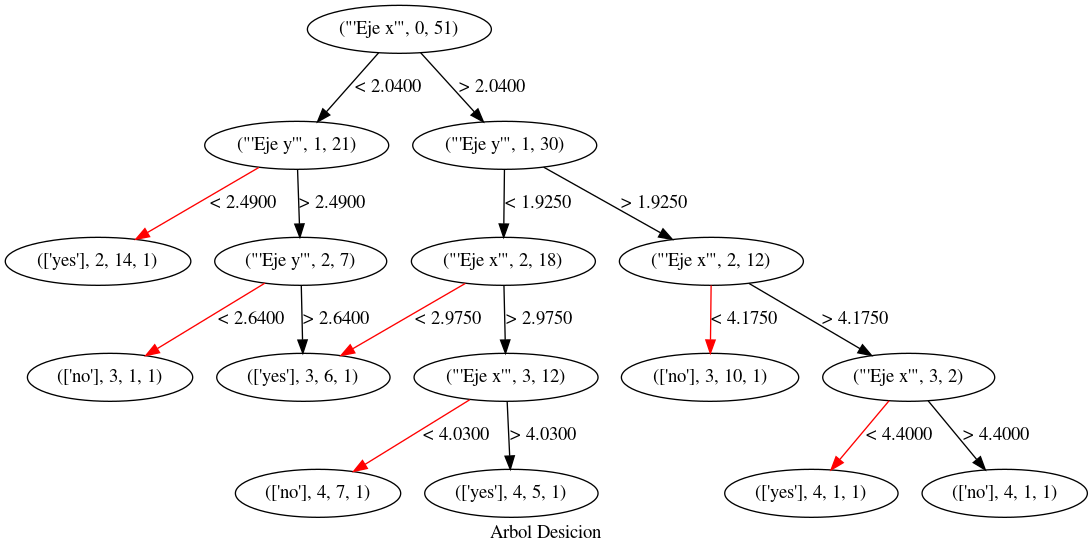
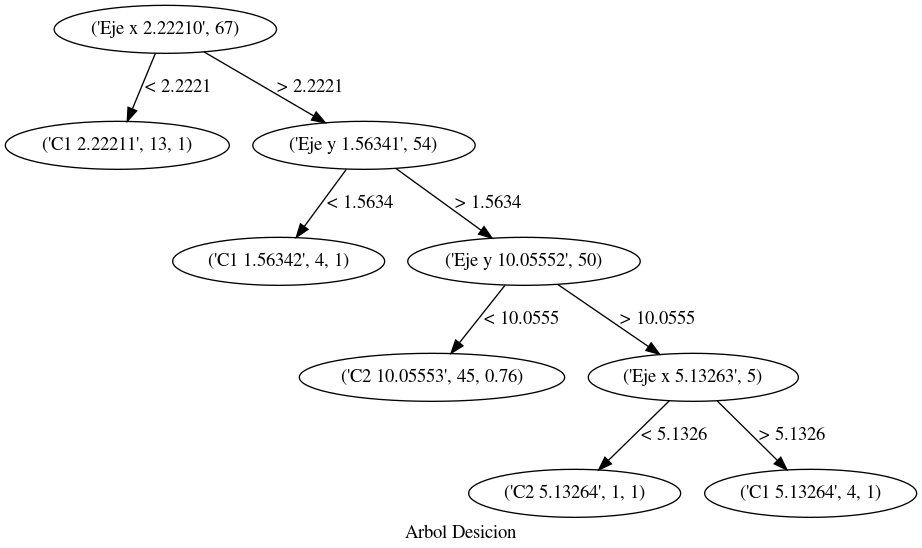
Conecte Limite de Ganancia y arregle plot de grafica desintegracion

diff --git a/VentanaPrincipal.py b/VentanaPrincipal.py
@@ -87,10 +87,8 @@ class Ventana(QMainWindow):
 
     def generarGraficos(self):
 
-        print(self.limite.value()) #Para leer el valor del limite
-
         nodo = ab.Nodo() #Creo un nodo vacio
-        self.arbol = principal(self.archivo, nodo)  #Llama a la funcion principal de apriory_exe que es el que genera los graficos
+        self.arbol = principal(self.archivo, nodo , self.limite.value())  #Llama a la funcion principal de apriory_exe que es el que genera los graficos
         
         ########## Prueba el arbol y muestra la eficiencia ##################
         eficiencia = probar_arbol(self.archivo, self.arbol)
@@ -98,8 +96,9 @@ class Ventana(QMainWindow):
         self.mostrarMensaje("Eficiencia del Arbol de Decision",mensaje)
         
         ######### Muestra las 2 figuras que se generaron #########
-        img = mpimg.imread('grafica_desintegracion.png')
-        plt.imshow(img)
+        #img = mpimg.imread('grafica_desintegracion.png')
+        #plt.imshow(img)
+        #plt.show()
         plt.figure()  #Crea otra ventana
         img2 = mpimg.imread('Arbol_Decision.png')
         plt.imshow(img2)

diff --git a/Desicion/desicion.py b/Desicion/desicion.py
@@ -92,7 +92,7 @@ def principal(archivo, nodo,limite_ganancia=None):
     nivel = 0  # Genera la profundidad inicial
     nodo = decision_tree(archivo[1], archivo[0], nodo, nivel,limite_ganancia)  # Llama al algoritmo de Decisi�n
 
-    nombre = 'Arbol_Decision 2.png'
+    nombre = 'Arbol_Decision.png'
     gf.graficar_arbol(nodo, nombre)  # Plotea otro grafico
     gf.graficar_diagrama_cortes(archivo[2], archivo[1], nodo, 'grafica_desintegracion.png')  # Plotea un grafio
     return nodo
